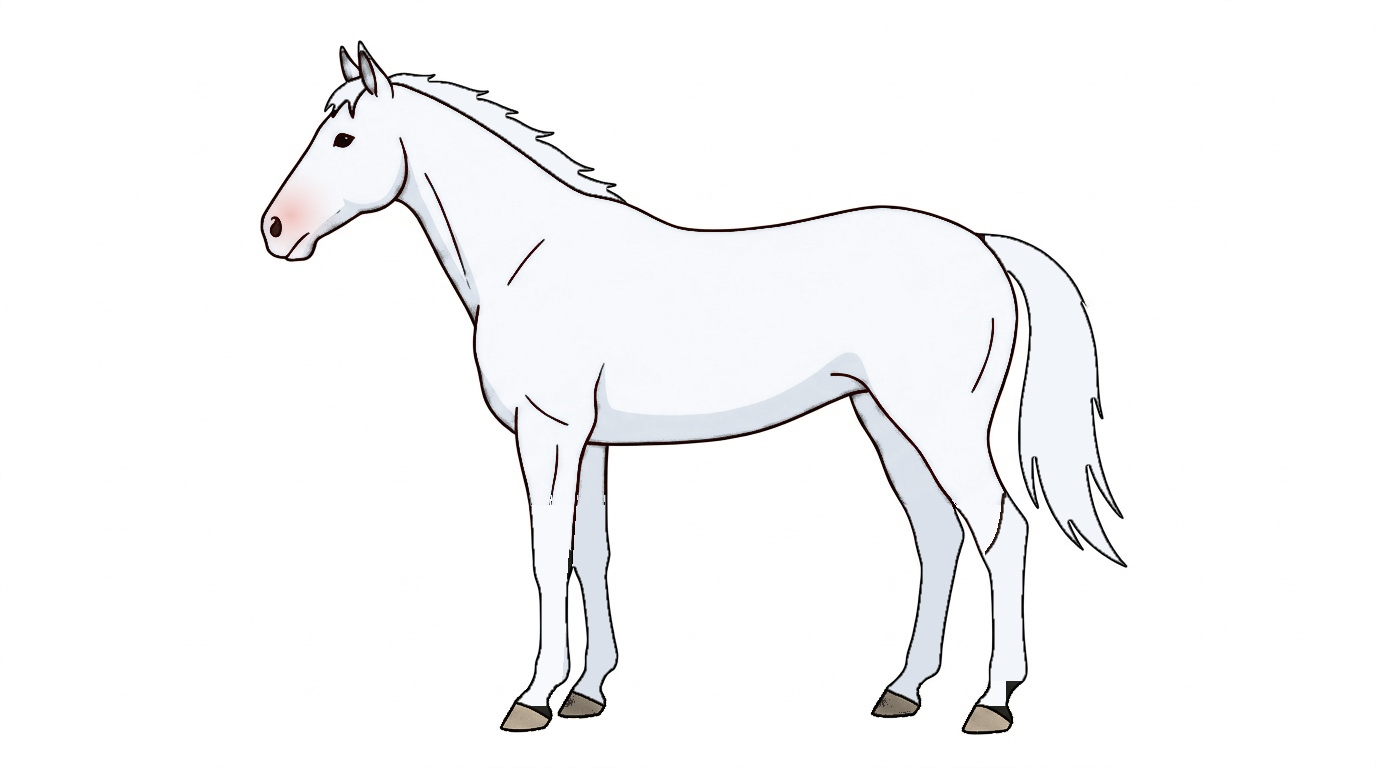
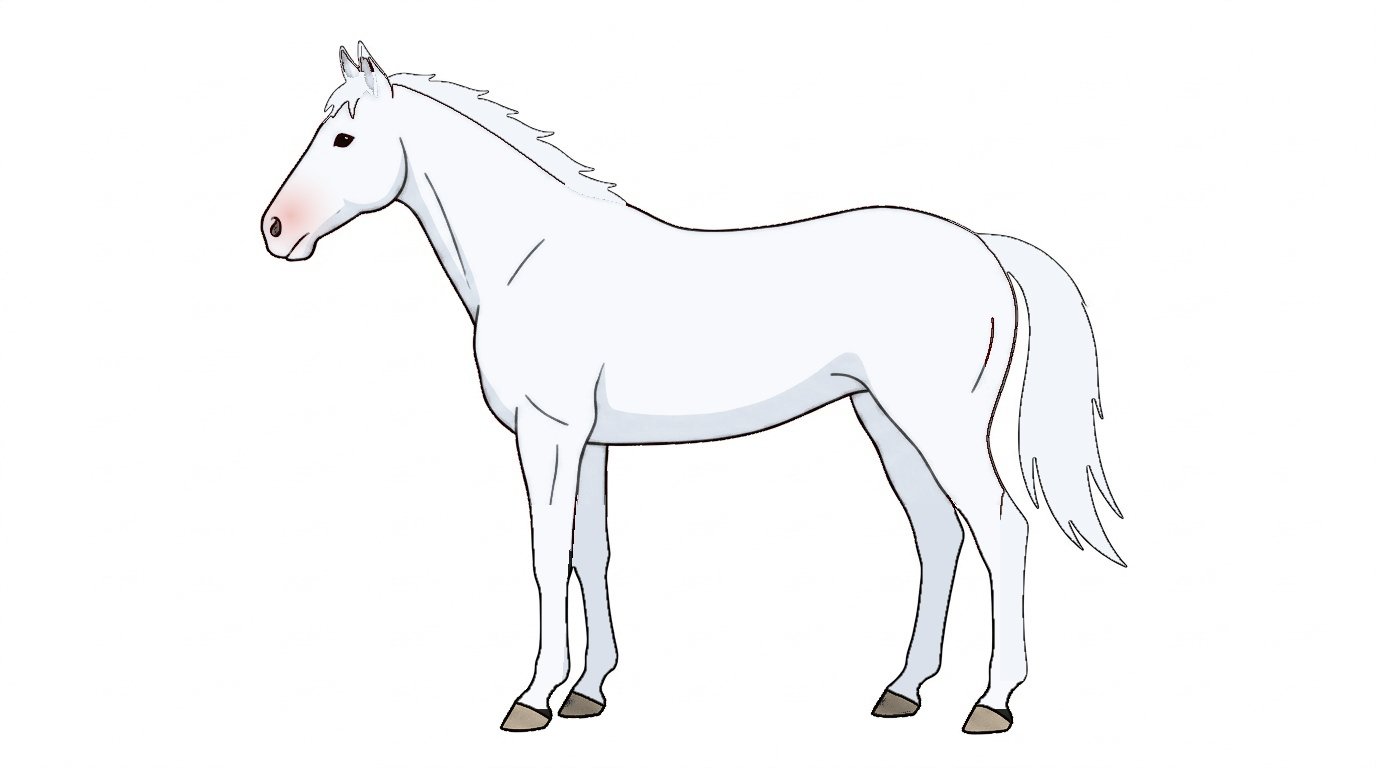
feat(assets): add white (白毛) 6-scene suite completing all 8 JRA coat colors

diff --git a/docs/CHANGELOG.md b/docs/CHANGELOG.md
@@ -7,6 +7,16 @@
 
 ## [Unreleased]
 
+### Added
+- **競走馬ビジュアル・イラスト素材制作（JRA全8毛色 × 全6シーン構成） ([#83](https://github.com/meshi-z/turf-talk/issues/83)):**
+  - **制作仕様書の策定 (`docs/specs/horse-visual-assets.md`):**
+    - アートスタイル（フラット・2トーン・黒目アーモンドアイ・騎手なし）、解剖学的正確性（マイブリッジ基準の4本脚管理）、全6シーン構成、アニメーション3点座標ロック、週末レース専用の首振り（ヘッドボブ）モーション、全8毛色カラーパレット・領域変換ルールの仕様を制定。
+  - **JRA全8毛色 × 全6シーン（計48アセット）の素材整備 (`src/assets/horses/`):**
+    - **全6シーン**: ①公式立ち絵（左向き・無装具）、②平日調教（右向き・白ゼッケン・6コマ）、③調教完了（右向き・無装具）、④週末レース（右向き・紺ゼッケン1番・首振り付き6コマ）、⑤-A 1着勝利（右向き・顔上げ）、⑤-B 惜敗労い（右向き・頭下げ）。
+    - **全8毛色**: 鹿毛 (`bay`), 栗毛 (`chestnut`), 黒鹿毛 (`dark_bay`), 芦毛 (`grey`), 青鹿毛 (`seal_brown`), 青毛 (`black`), 栃栗毛 (`liver_chestnut`), 白毛 (`white`)。
+    - 各毛色の特徴部位（黒ソックスの有無、鼻先・目元のボカシ肌色、飴色白蹄など）を正確に再現。
+    - 右向き静止画3種（③、⑤-A、⑤-B）の馬体完全一致（0.0px誤差）およびスプライトシート（②、④）の胴体3点座標ロックを達成。
+
 ---
 
 ## [v0.12.1] - 2026-10-25

diff --git a/docs/specs/horse-visual-assets.md b/docs/specs/horse-visual-assets.md
@@ -99,4 +99,4 @@
 | **5** | **青鹿毛** | `seal_brown` | **6%** | `#2A201C`<br>`(42, 32, 28)` | `#1C1412`<br>`(28, 20, 18)` | `#141312`<br>`(20, 19, 18)` | **あり**<br>`#141312` | **鼻先・目元のみ微かな褐色**<br>`#69321A` `(105, 50, 26)` | `#443C38`<br>`(68, 60, 56)` | **全6シーン完成** |
 | **6** | **青毛** | `black` | **4%** | `#2C2F35`<br>`(44, 47, 53)` | `#1B1D22`<br>`(27, 29, 34)` | `#141518`<br>`(20, 21, 24)` | **あり**<br>`#141518` | **なし（全身純粋な漆黒）** | `#3E3C3E`<br>`(62, 60, 62)` | **全6シーン完成** |
 | **7** | **栃栗毛** | `liver_chestnut` | **3%** | `#74341E`<br>`(116, 52, 30)` | `#542212`<br>`(84, 34, 18)` | `#602A16`<br>`(96, 42, 22)` | **なし**<br>（被毛と同色） | なし | `#58483E`<br>`(88, 72, 62)` | **全6シーン完成** |
-| **8** | **白毛** | `white` | **1%** | `#F7F9FC`<br>`(247, 249, 252)` | `#DAE1EA`<br>`(218, 225, 234)` | `#F2F5FA`<br>`(242, 245, 250)` | **なし**<br>（純白被毛） | **鼻先に淡い桜色（ピンク肌）**<br>`#EEB6B0` `(238, 182, 176)` | `#C4B49E`<br>`(196, 180, 158)` | ①完成 / ②〜⑤予定 |
+| **8** | **白毛** | `white` | **1%** | `#F7F9FC`<br>`(247, 249, 252)` | `#DAE1EA`<br>`(218, 225, 234)` | `#F2F5FA`<br>`(242, 245, 250)` | **なし**<br>（純白被毛） | **鼻先に淡い桜色（ピンク肌）**<br>`#EEB6B0` `(238, 182, 176)` | `#C4B49E`<br>`(196, 180, 158)` | **全6シーン完成** |
